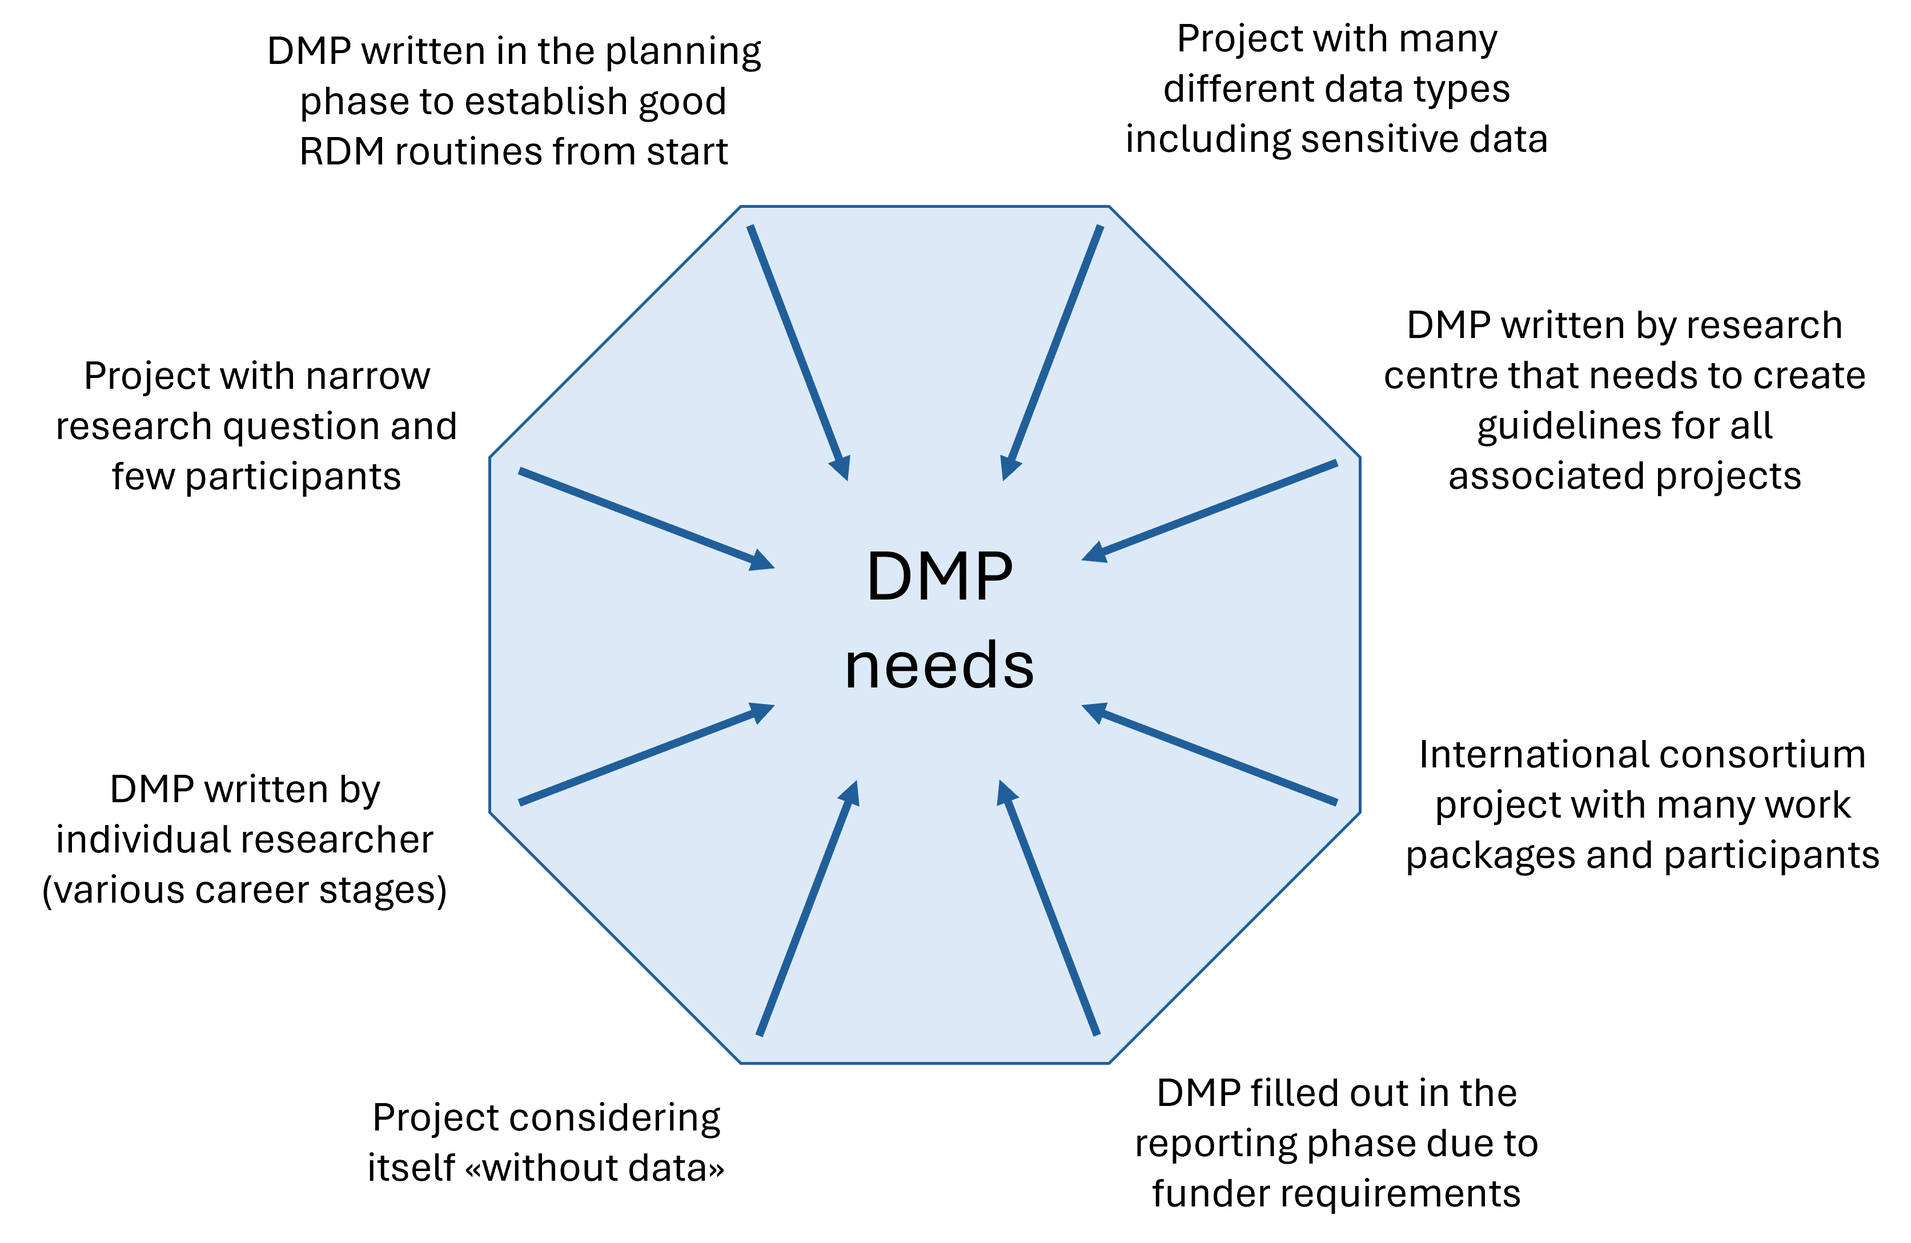
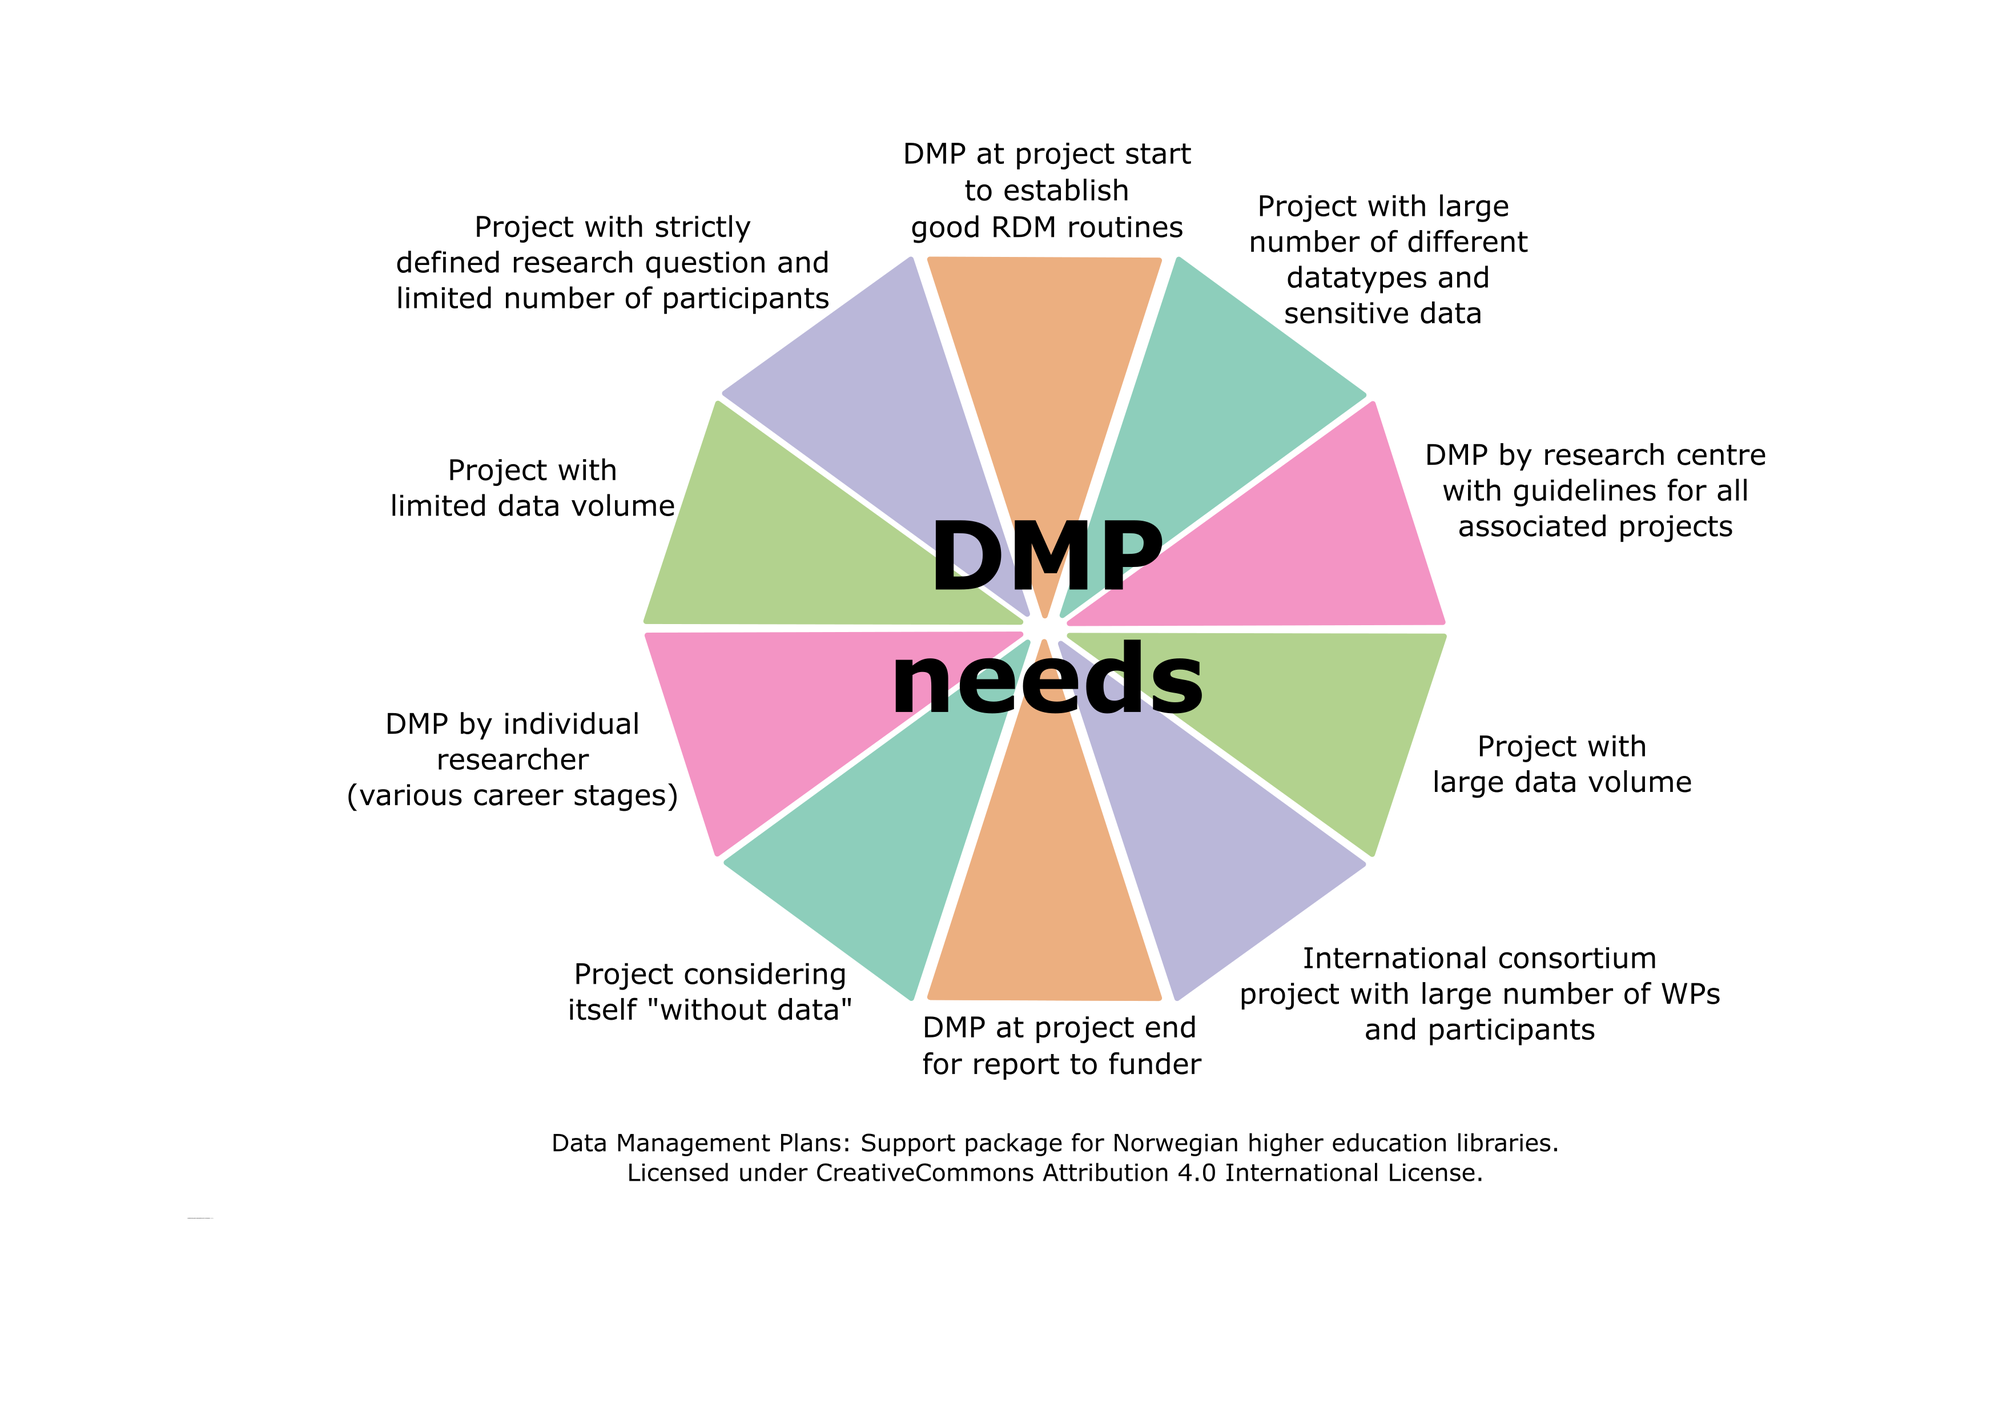
updated stakeholders and dmp needs; updated page structure of supporting info

diff --git a/index.html b/index.html
@@ -43,7 +43,7 @@ layout: none
         <section class="container mb-5">
             <div>
                 <p class="text-center lead"> This webpage is a working platform for the project <a href="https://www.uib.no/en/ub/166135/data-management-plans-support-package-norwegian-higher-education-libraries" > Data Management Plans: Support package for Norwegian higher education libraries </a> led by the University of Bergen and with contributors from the Norwegian University of Science and Technology, the Univesity of Oslo, UiT The Arctic University of Norway, PhD-On-Track, and ELIXIR Norway. The project is supported by the National Library of Norway.
-				<br The resulting support package under open license will contain both a knowledge base for support personnel, short texts for use in digital DMP tools, and supplementing information resources for researchers and students both in Norwegian and English.
+				<br> The resulting support package under open license will contain both a knowledge base for support personnel, short texts for use in digital DMP tools, and supplementing information resources for researchers and students both in Norwegian and English.
                 </p>
             </div>
         </section>

diff --git a/pages/dmp_knowledge_base/dmp_knowledge_base.md b/pages/dmp_knowledge_base/dmp_knowledge_base.md
@@ -13,7 +13,7 @@ sidebar: dmp_knowledge_base
 
 This section collects useful information about data management plans (DMP) for support personnel.
 
-The page structure is based on the [Science Europe DMP Guidance](https://doi.org/10.5281/zenodo.4915862 "Science Europe. (2021). Practical Guide to the International Alignment of Research Data Management - Extended Edition. https://doi.org/10.5281/zenodo.4915862"). Each section is annotated and mapped to relevant persistent identifiers, interested stakeholders, project phase, and the [RDA Common Standard for maDMP](http://doi.org/10.15497/rda00039).\
+The page structure is based on the [Science Europe DMP Guidance](https://doi.org/10.5281/zenodo.4915862 "Science Europe. (2021). Practical Guide to the International Alignment of Research Data Management - Extended Edition. https://doi.org/10.5281/zenodo.4915862"). Each section is annotated and mapped to relevant persistent identifiers, interested stakeholders, project phase, and the [RDA Common Standard for machine-actionable DMP (maDMP)](http://doi.org/10.15497/rda00039).\
 Annotations by the project group are indicated as follows:
 > 1a.1\
 > Guidance text
@@ -37,46 +37,53 @@ The knowledge base is complemented by the following topics:
 - [Inspiring DMP projects](/pages/dmp_projects_elsewhere)
 
 ---
-## DMP stakeholders
-A data management plan (DMP) is a structured document that gathers information on the handling of research data throughout the entire lifecycle of a research project. A data management plan is a living document that should be updated as the project develops.\
-Researchers meet requirements from institutions on research funders that projects must have a DMP. While funders are interested in ensuring that research data in a project contribute to its impact, writing a DMP is also a useful process for researchers and a DMP can function as a hub that connects data-related aspects in a project.\
-Importantly, the information in a data management plan can also be valuable for third-party actors at different stages of a research project. Automatic exchange of information through machine-actionable data management plans (maDMP) is increasingly gaining attention (see e.g. [Miksa, T, Simms, S, Mietchen, D and Jones, S. 2019. Ten Príncipes for Machine-Actionable Data Management Plans. PLoS Comput Biol, 15(3): e1006750](https://doi.org/10.1371/journal.pcbi.1006750)).
+## Mapping of DMP stakeholders and needs
 
-In this project, we have categorised stakeholders into 3 levels (illustrated below as stakeholder pyramid):
+In addition to analysing and annotating existing guidelines and resources, the project group has reflected on DMP stakeholders in Norway that should be considered when designing DMP guidance and templates. This mapping is both inspired by taking a multi-stakeholder perspective on data management plans as proposed by [Kvale and Pharo](	https://doi.org/10.2218/ijdc.v16i1.746) and the group’s extensive experience in providing data management support in institutions and research infrastructures to both researchers and policy makers. Furthermore, we have illustrated DMP needs resulting from the wide spectrum of research projects and expectations a DMP may need to serve.
+
+These considerations are also available on zenodo [(DOI: 10.5281/zenodo.10836867)](https://doi.org/10.5281/zenodo.10836867).
+
+### DMP Stakeholders
+A data management plan (DMP) is a structured document containing information and thoughts regarding the handling of research data throughout the entire lifecycle of a research project, with the intention of making data as FAIR (Findable, Accessible, Interoperable, Reusable) and as open as possible. A data management plan is a living document to be updated as the project develops. Researchers meet requirements from institutions and research funders to create DMPs for their projects, in order to maximise project impact and to ensure that legal and ethical aspects t are considered. For researchers, writing a DMP should be an awareness-creating process and the DMP can function as a hub that connects data-related aspects in a project. Relevant guidance is essential in order to make writing a DMP a useful exercise instead of being perceived as an administrative burden.
+
+Importantly, the information in a data management plan can also be valuable for third-party actors at different stages of a research project. Integrating information in DMPs with other services through machine-actionable data management plans (maDMP) is increasingly gaining attention (see e.g. [Miksa, T, Simms, S, Mietchen, D and Jones, S. 2019. Ten Príncipes for Machine-Actionable Data Management Plans. PLoS Comput Biol, 15(3): e1006750](https://doi.org/10.1371/journal.pcbi.1006750)). Of note, not all of the suggested interactions are currently covered by the [RDA Common Standard for machine-actionable DMPs](http://doi.org/10.15497/rda00039). The current standard is best suited for documenting administrative information and produced datasets, and thus exchanging DMP information connected to the beginning or end of a research project. Aspects related to conducting research in the active phase, such as routines for data management and processing or legal and ethical considerations, are currently not sufficiently covered. These aspects are more difficult to standardise and closely linked to the research domain, yet potentially of interest for stakeholders and crucial for the awareness-creating function of a DMP.
+
+In this project, we have categorised DMP stakeholders in 3 levels as illustrated below as stakeholder pyramid: stakeholders that have requirements on DMP format or content (level I), stakeholders that could interact with information in the DMP (level II), and stakeholders that are not directly involved but have an interest in DMPs facilitating FAIR research data or in the DMP itself (level III).
 
 #### Level I: Stakeholders who set requirements
-- Researchers (employed in various structures, at different career levels): Requirements for user-friendliness, academic relevance
-- Institutions: Requirements for maintaining information security & privacy
-- Research funders: Institutions that require DMP, Norwegian/European Research Council: Requirements for Open Science & DMP
+- Researchers (employed in various structures, at different career levels): Requirements for user-friendliness and academic relevance
+- Institutions: Requirements for complying with information security, legislation and research ethics
+- Research funders, Institutions that require DMP: Requirements for Open Science and DMP
 
 #### Level II: Stakeholders who can offer/use information in DMP
-[relevant project phase: planning, implementation, reporting]
+The level II stakeholders might have interests in a DMP at different times during a research project, the relevant project phases are indicated in square brackets: planning (pre/post-award), implementation (active phase of the research: data creation/collection, data processing, preparing data for archiving), reporting (to institution/funder, e.g. using research information system).
 
 ##### Within the institution
-- IT department: Data storage services, information about information security [planning, implementation]
+- IT department: Data storage services, information security guidelines [planning, implementation]
 - Data Protection Officer: Projects with personal data/special category personal data, research ethics guidelines [planning]
 - Research Advisor/Research Administration: Project funding, project results, for evaluation and statistical purposes [planning, reporting]
 
 ##### Support personnel
-- Data Steward (affiliated with research unit, core facility, infrastructure): Planning, data documentation, data storage, data analysis, data sharing [planning, implementation]
+- Data Steward (affiliated with research unit, core facility, or research infrastructure): Planning, data documentation, data storage, data analysis, data sharing [planning, implementation]
 - Research support at the university library: Planning, data documentation, data sharing [planning, implementation]
-- Data Curator (at data archive): data sharing [implementation, reporting]
+- Data Curator (at data archive): Data sharing [implementation, reporting]
 
-##### National/regional services
-- Sigma2: Data storage services, high-performance computing [planning]
-- REK: Projects with health data [planning]
-- SIKT privacy services: Projects with personal data [planning]
-- CRIS/NVA: Project results [reporting]
+##### National/regional service providers
+- Sigma2 (national service provider of computational infrastructure): Allocating data storage services, high-performance computing [planning]
+- REK (regional ethical committees): Projects with health data [planning]
+- SIKT (Norwegian Agency for Shared Services in Education and Research) privacy services: Projects with personal data [planning]
+- CRIStin/NVA (research information system): Project results [reporting]
 
 #### Level III: Stakeholders without immediate involvement
-- Research community: reuse of research data, transparency in the research process, overview of ongoing projects
-- Industry: re-use of research data
-- Society: transparent and cost-effective research
+- Research community: Reuse of research data, transparency in the research process, overview of ongoing projects
+- Open Science ecosystem: DMP as research object
+- Industry: Re-use of research data
+- Society: Transparent and cost-effective research
 
 {% include image.html file="stakeholder_pyramid.png" caption="Stakeholder pyramid: DMP stakeholders in Norway." alt="DMP stakeholders depicted as pyramid with Level 1 (Stakeholders who set requirements) at the top, surrounded by the words Risk reduction, Compliance, User-friendliness & Relevance. Level 2 (Stakeholders who can offer/use information in DMP) in the middle. Level 3 (Stakeholders without immediate involvement) at the bottom" %}
 
 ---
-## DMP needs
-Depending on the field of research and the needs of the project, the DMP may take different forms. A DMP for a straightforward project with few participants will look different than a DMP for a complex international consortium project. A DMP for at project that analyses literature sources will look different from a project that creates many different types of data from patient samples. Some of these 'cornerstones' are illustrated below.
+### DMP needs
+Depending on the field of research and the needs of the project, the DMP may take different forms. A DMP for a straightforward project with few participants and limited data volume will look different from a DMP for a complex international consortium project that will produce terabytes of data. A DMP for a project that analyses literature sources will look different from a project that creates many different types of data from patient samples. The project aims to address these - partially opposing - ‘DMP cornerstones’, as illustrated below.
 
 {% include image.html file="dmp_cornerstones.png" caption="Cornerstones illustrating the different needs a DMP may need to meet." alt="Hexagon illustrating different DMP needs with characteristics written at each corner and arrows pointing to writing 'DMP needs' in the middle." %}

diff --git a/pages/dmp_supporting_info/dmp_supporting_info.md b/pages/dmp_supporting_info/dmp_supporting_info.md
@@ -20,7 +20,7 @@ This section collects information that is useful when writing a Data Management 
 
 A data management plan (DMP) is both a formal document and a practical tool. Both research funders and institutions require research projects to have a DMP. A DMP outlines how data is planned to be handled in the process of a research project, from data collection or re-use, through data processing and analysis, to data preservation and archiving. Depending on the field of research and the needs of the project, the DMP may take different forms. The DMP should be considered a living document and be revised as the project develops.
 Writing a DMP will
-- Establish good data management routines in your project, including creating awareness for ethical, legal and privacy aspects Make it easier to have a unified approach to data management within a research group and create awareness around potential data-related issues as early as possible
+- Establish good data management routines in your project, including creating awareness for ethical, legal and privacy aspects and aid allocation of required resources
 - Make it easier to have a unified approach to data management within a research group and create awareness around potential data-related issues as early as possible
 - Help you to create a preservation plan for your data and gather all necessary documentation to archive high-quality FAIR data (openly or with controlled access)
 - Help you choose the right storage and backup solutions and thereby avoid data loss or violation of information security

diff --git a/pages/dmp_supporting_info/support_09_preserve_publish.md b/pages/dmp_supporting_info/support_09_preserve_publish.md
@@ -4,7 +4,7 @@ layout: page
 title: Preserving and publishing data
 search_exclude: false
 contributors: [Jenny Ostrop]
-page_id: support_08_preserve_publish
+page_id: support_09_preserve_publish
 description: Supporting DMP Information, preservation strategy, preserve data, data preservation, publish data, data publication, repository, open access, closed access, data sharing
 sidebar: dmp_supporting_info
 ---

diff --git a/pages/dmp_supporting_info/support_02_admin_information.md b/pages/dmp_supporting_info/support_02_admin_information.md
@@ -5,8 +5,7 @@ title: Administrative information
 search_exclude: false
 contributors: [Jenny Ostrop]
 page_id: support_02_admin_information
-description: Supporting DMP Information, administrative information
-affiliations:
+description: Supporting DMP Information, administrative information, publish dmp, dmp publication, manage dmp, living document
 sidebar: dmp_supporting_info
 ---
 

diff --git a/pages/dmp_supporting_info/support_08_process_analyse.md b/pages/dmp_supporting_info/support_08_process_analyse.md
@@ -4,9 +4,8 @@ layout: page
 title: Processing and analysing data
 search_exclude: false
 contributors: [Jenny Ostrop]
-page_id: support_07_process_analyse
+page_id: support_08_process_analyse
 description: Supporting DMP Information, process data, data processing, analyse data, data analysis, analyze, analyzis
-affiliations:
 sidebar: dmp_supporting_info
 ---
 

diff --git a/pages/dmp_supporting_info/support_10_responsibilities_resources.md b/pages/dmp_supporting_info/support_10_responsibilities_resources.md
@@ -4,7 +4,7 @@ layout: page
 title: Responsibilities and resources
 search_exclude: false
 contributors: [Jenny Ostrop]
-page_id: support_09_responsibilities_resources
+page_id: support_10_responsibilities_resources
 description: Supporting DMP Information, data management responisbilities, data management resources
 sidebar: dmp_supporting_info
 ---

diff --git a/pages/dmp_supporting_info/support_07_collect_create.md b/pages/dmp_supporting_info/support_07_collect_create.md
@@ -4,9 +4,8 @@ layout: page
 title: Creating and collecting data
 search_exclude: false
 contributors: [Jenny Ostrop]
-page_id: support_06_collect_create
+page_id: support_07_collect_create
 description: Supporting DMP Information, data collection, data creation, data generation, data production
-affiliations:
 sidebar: dmp_supporting_info
 ---
 

diff --git a/pages/dmp_supporting_info/support_03_about_research.md b/pages/dmp_supporting_info/support_03_about_research.md
@@ -1,0 +1,12 @@
+---
+layout: page
+<!--type: cheat_sheet-->
+title: About the research project
+search_exclude: false
+contributors: [Jenny Ostrop]
+page_id: support_03_about_research
+description: Supporting DMP Information, Administrative information, Research project, Contributors, Funding
+sidebar: dmp_supporting_info
+---
+
+coming soon

diff --git a/pages/dmp_supporting_info/support_04_legal_ethics.md b/pages/dmp_supporting_info/support_04_legal_ethics.md
@@ -4,9 +4,8 @@ layout: page
 title: Legal and ethical aspects
 search_exclude: false
 contributors: [Jenny Ostrop]
-page_id: support_03_legal_ethics
+page_id: support_04_legal_ethics
 description: Supporting DMP Information, legal requirements, ethical requirements
-affiliations:
 sidebar: dmp_supporting_info
 ---
 

diff --git a/pages/dmp_supporting_info/support_06_data_reuse.md b/pages/dmp_supporting_info/support_06_data_reuse.md
@@ -4,9 +4,8 @@ layout: page
 title: Reusing data
 search_exclude: false
 contributors: [Jenny Ostrop]
-page_id: support_05_data_reuse
+page_id: support_06_data_reuse
 description: Supporting DMP Information, reusing data, data reuse, data re-use, pre-existing data
-affiliations:
 sidebar: dmp_supporting_info
 ---
 

diff --git a/pages/dmp_supporting_info/support_05_storage_backup.md b/pages/dmp_supporting_info/support_05_storage_backup.md
@@ -4,9 +4,8 @@ layout: page
 title: Storage and backup
 search_exclude: false
 contributors: [Jenny Ostrop]
-page_id: support_04_storage_backup
+page_id: support_05_storage_backup
 description: Supporting DMP Information, data storage, data backup
-affiliations:
 sidebar: dmp_supporting_info
 ---
 
